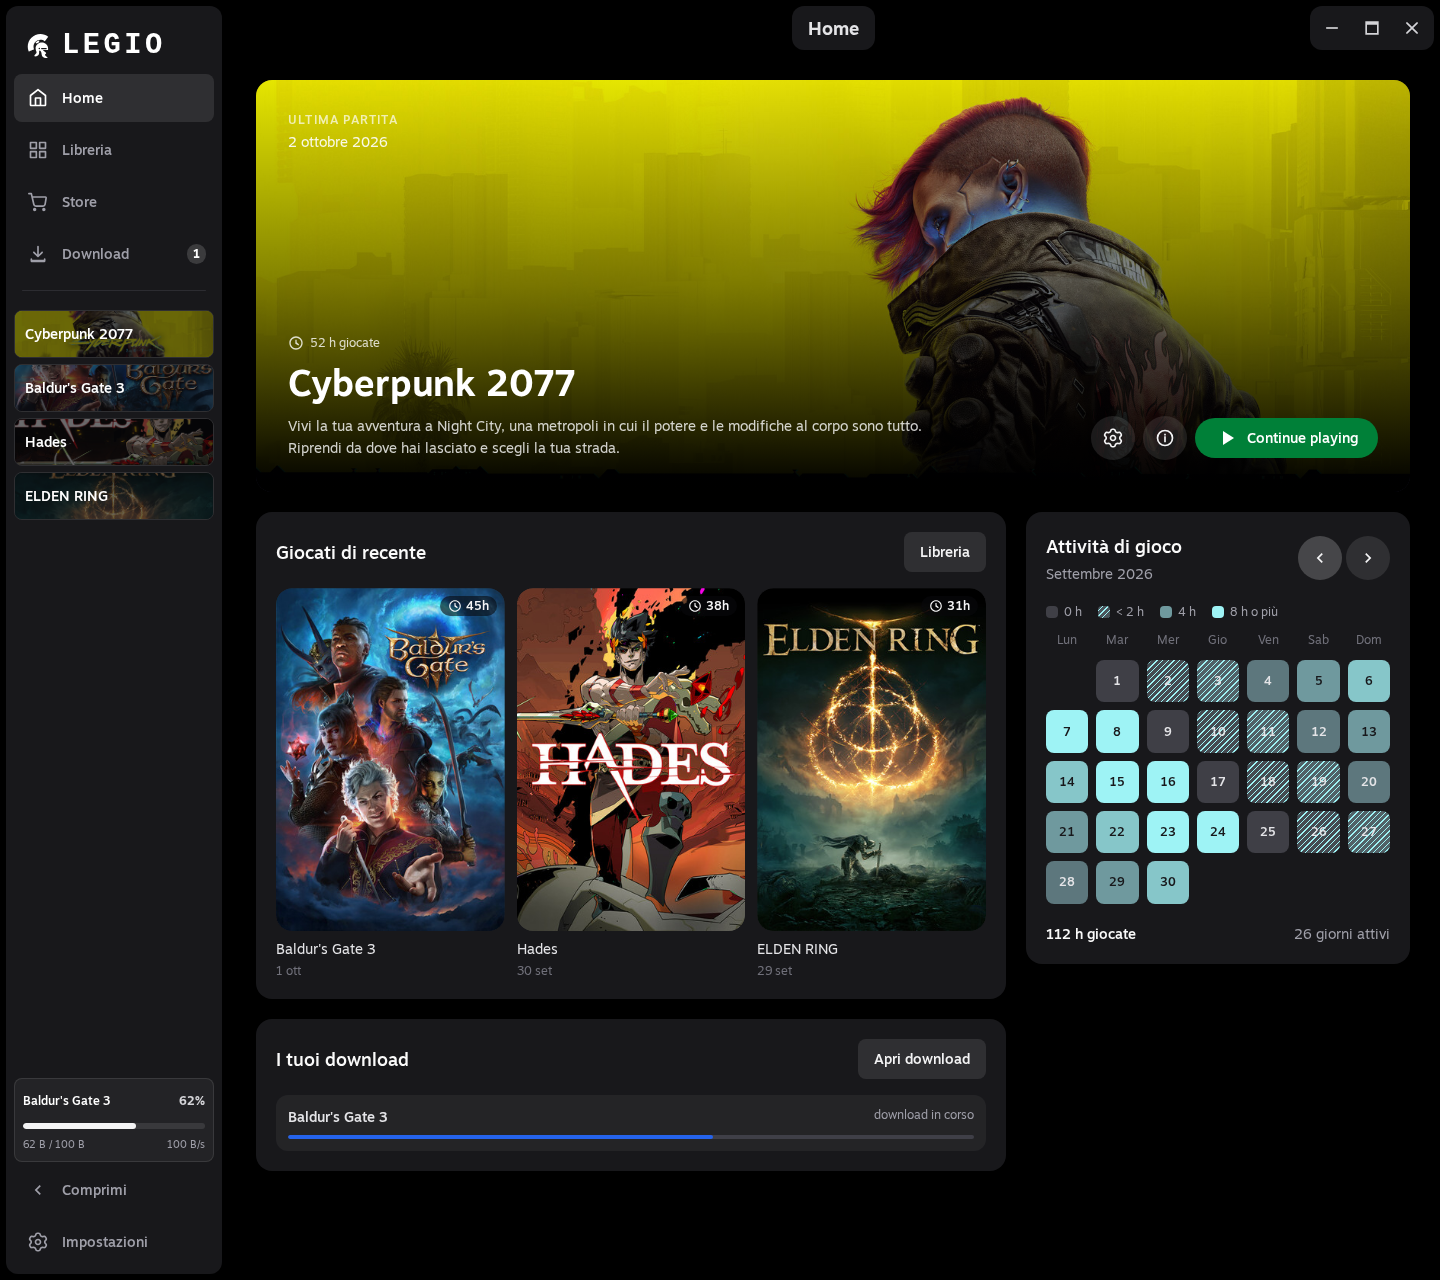
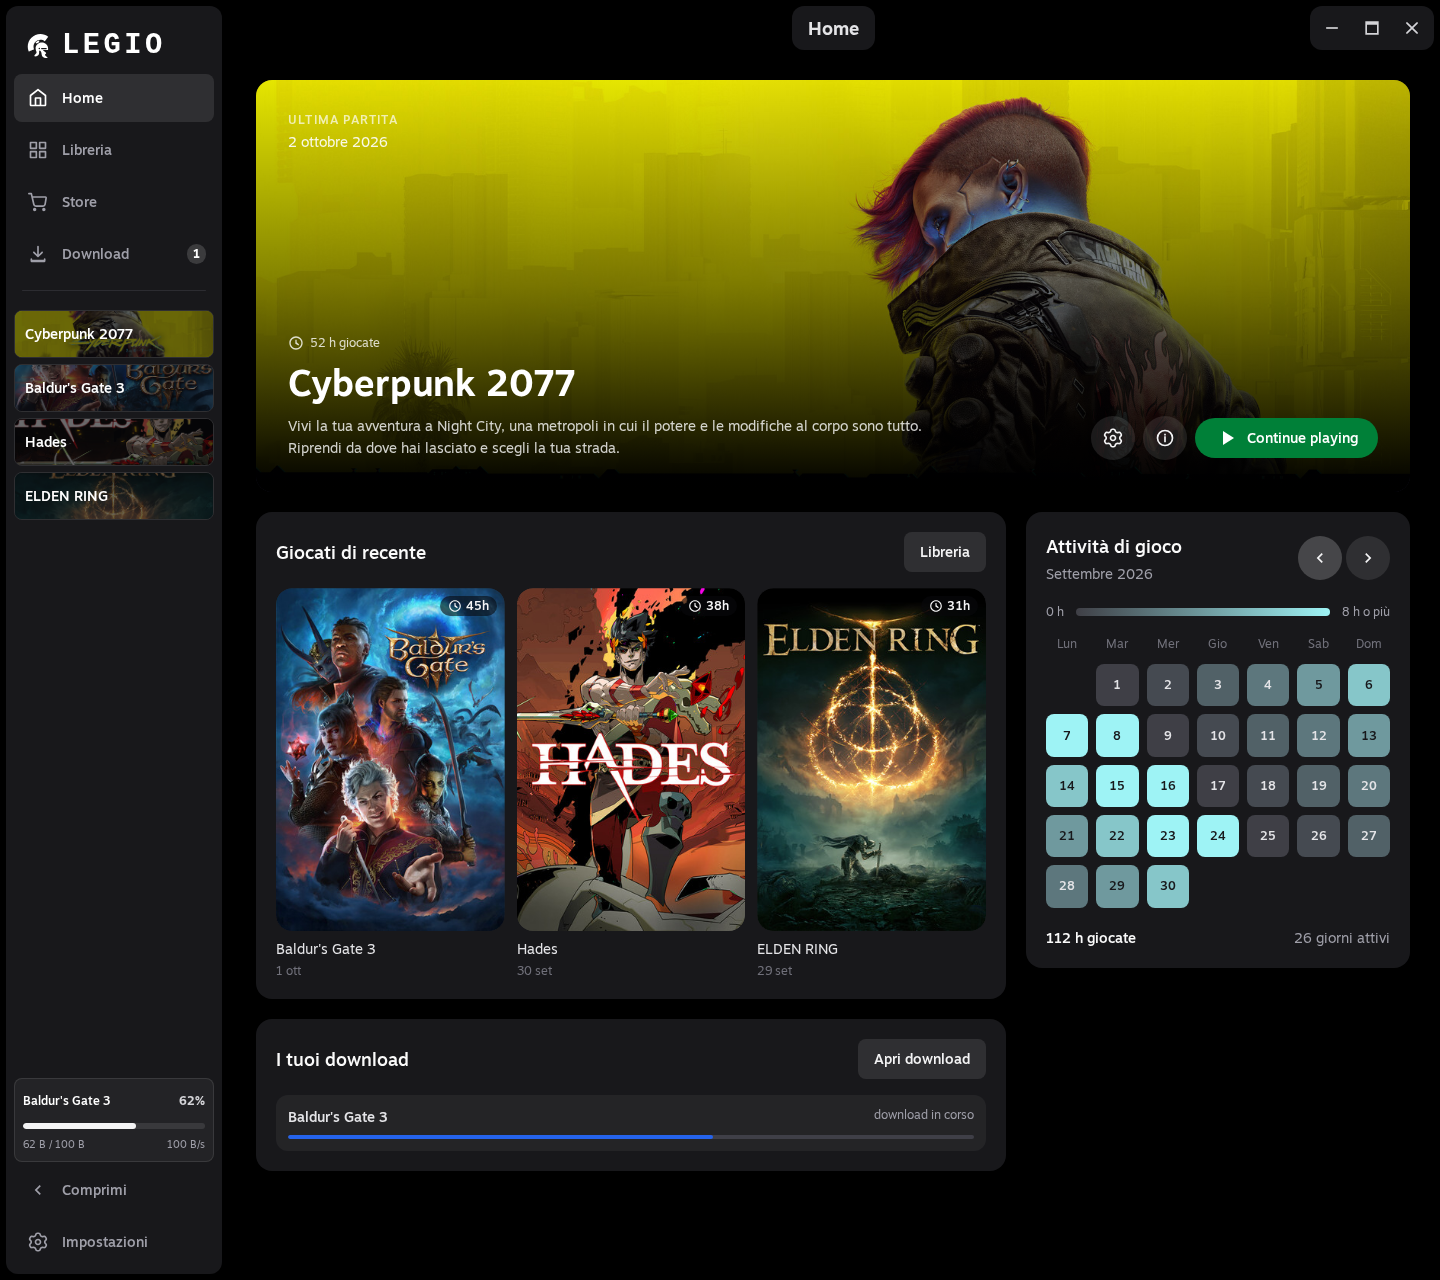
fix: use continuous home activity colors from zero to eight hours

Changed region(s): [[0.7188, 0.4688, 0.9688, 0.75], [0.9062, 0.7188, 0.9688, 0.75]]

diff --git a/src/lib/features/home/ActivityCalendar.svelte b/src/lib/features/home/ActivityCalendar.svelte
@@ -47,10 +47,10 @@
   <StateBlock status={$activity.status} hasData={$activity.data !== null} error={$activity.error} onRetry={() => void activity.load()} loadingMessage="Caricamento attività..." />
 
   {#if $activity.data !== null}
-    <div class="mb-3 flex flex-wrap gap-4 text-xs text-zinc-400 light:text-zinc-600" aria-label="Legenda ore giocate">
-      {#each [{ hours: 0, label: '0 h' }, { hours: 1, label: '< 2 h' }, { hours: 4, label: '4 h' }, { hours: 8, label: '8 h o più' }] as level (level.hours)}
-        <span class="flex items-center gap-1.5"><span class="activity-cell size-3 rounded-sm" class:hatched={level.hours > 0 && level.hours < 2} style={`--intensity: ${activityIntensity(level.hours * 3600000) * 100}%`} aria-hidden="true"></span>{level.label}</span>
-      {/each}
+    <div class="mb-4 flex items-center gap-3 text-xs text-zinc-400 light:text-zinc-600" role="img" aria-label="Intensità proporzionale alle ore giocate, da 0 a 8 ore o più">
+      <span>0 h</span>
+      <span class="activity-scale block h-2 flex-1 rounded-full" aria-hidden="true"></span>
+      <span>8 h o più</span>
     </div>
     <div class="grid grid-cols-7 gap-2" role="group" aria-label={`Calendario di ${monthLabel}`}>
       {#each ['Lun', 'Mar', 'Mer', 'Gio', 'Ven', 'Sab', 'Dom'] as weekday (weekday)}
@@ -66,7 +66,6 @@
           {@const label = `${day} ${monthLabel}: ${future ? 'giorno futuro' : formatPlaytime(milliseconds) + ' giocati'}`}
           <span
             class="activity-cell flex aspect-square items-center justify-center rounded-lg text-xs font-medium tabular-nums text-zinc-200 light:text-zinc-800"
-            class:hatched={milliseconds > 0 && milliseconds < 2 * 3600000}
             class:future
             class:today
             class:active={milliseconds >= 3 * 3600000}
@@ -89,12 +88,13 @@
   .activity-cell {
     background-color: color-mix(in srgb, var(--color-legio-activity) var(--intensity), var(--activity-base, #3f3f46));
   }
-  .hatched {
-    background-image: repeating-linear-gradient(135deg, transparent 0 3px, var(--color-legio-activity) 3px 4px);
+  .activity-scale {
+    background: linear-gradient(to right, var(--activity-base, #3f3f46), var(--color-legio-activity));
   }
   .active { color: #18181b; }
   .future { color: #a1a1aa; }
   .today { outline: 2px solid var(--color-legio-activity); outline-offset: 2px; }
-  :global([data-theme="light"]) .activity-cell { --activity-base: #d4d4d8; }
+  :global([data-theme="light"]) .activity-cell,
+  :global([data-theme="light"]) .activity-scale { --activity-base: #d4d4d8; }
   :global([data-theme="light"]) .future { color: #52525b; }
 </style>

diff --git a/docs/frontend/home.md b/docs/frontend/home.md
@@ -12,7 +12,7 @@ Preview screenshots use fixture data:
 - The banner selects the most recently played installation from real session timestamps and shows its date, name, artwork, short description, and recorded playtime.
 - Continue playing reuses the existing launch lifecycle, including cancellation, stop, and Steam account-switch confirmation. Info opens game details; Settings opens the game settings dialog.
 - The calendar starts on Monday, leaves slots outside the selected month blank, and uses five or six weeks as needed. Previous months are navigable; future months are disabled.
-- Zero hours is gray, activity below two hours is hatched, and color intensity increases continuously until eight hours. Dates, tooltips, a legend, the monthly total, and active-day count accompany the cells.
+- Color intensity increases continuously from gray at zero hours to the full accent color at eight hours, with no hatching or fixed ranges. Dates, tooltips, a gradient legend, the monthly total, and active-day count accompany the cells.
 - Local-day boundaries include daylight saving changes. Rust splits stored sessions into daily totals; active sessions count through request time. Concurrent games contribute separately, matching lifetime totals.
 - Loading, empty, cached/offline, and retryable error states use existing frontend resources. Playtime and activity refresh every 30 seconds while Home is mounted.
 - Keyboard Tab navigation is enabled; existing focus indicators and reduced-motion rules apply.
